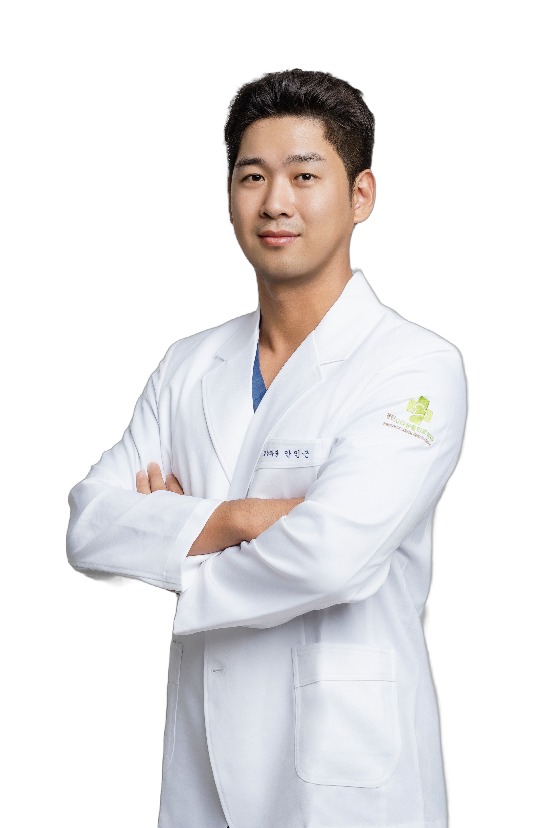
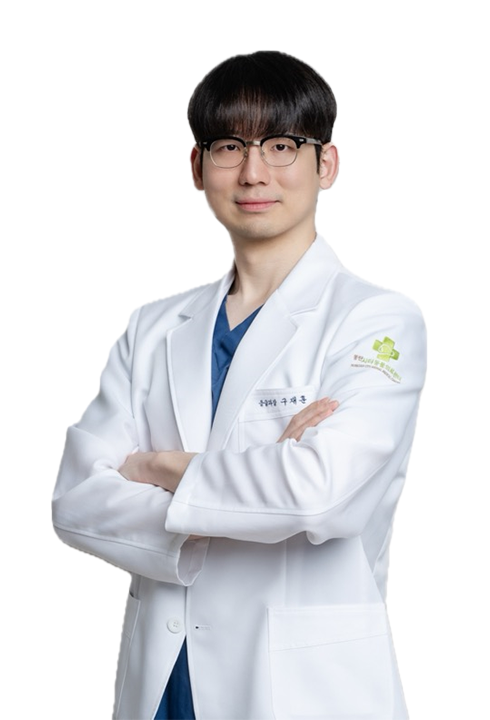
Change members

Changed region(s): [[0.0918, 0.0611, 0.8878, 1.0], [0.7959, 0.3972, 0.8265, 0.4278]]

diff --git a/components/sections/vets/vet-section.tsx b/components/sections/vets/vet-section.tsx
@@ -43,68 +43,70 @@ const VETS = [
     ],
   },
   {
-    name: "김경채",
-    title: "외과과장",
-    subjects: [
-      "정형외과(Orthopedic Surgery)",
-      "연부조직외과(Soft Tissue Surgery)",
-    ],
+    name: "김영석",
+    title: "응급과장",
+    subjects: ["응급진료(Emergency & Critical Care)"],
     image: vet2,
     history: [
-      "충북대 수의외과학 학사 졸업",
-      "충북대 수의외과학 석사 졸업",
-      "충북대 외과임상조교, 일반외과 팀장",
-      "24시동탄시티동물의료센터 외과 과장",
-      "",
-      "",
-      "한국 수의외과 학회 정회원",
-      "NAVER 동물질병백과 감수, PennHIP 인증 수의사",
-      "고양이 전십자인대 단열 및 치료과정 / TTA rapid를 활용한 강아지",
-      "십자인대 단열 및 슬개골 탈구의 교정(VETHONORS,2023)",
+      "충남대 수의외과학 박사 졸업",
+      "전)경기도 수의사회 부회장",
+      "전)경기동물메디컬센터 대표원장",
+      "전)탑케어동물의료원 대표원장",
+      "24시동탄시티동물의료센터 응급과장",
     ],
     expert: [
-      "Postoperative Application of Fentanyl Transdermal Patch in Lynx with Tibial Fracture (대한수의사회 임상컨퍼런스, 2021)",
-      "Veterinary surgical intervention seminar(2023)",
-      "Effect of leash walking on weight loss and assessment of hair cortisol in overweight dogs (Comparative Exercise Physiology, 2024)",
-      "DFO/PTO/TPLO-M/TTTT2 by Massimo Petazzoni (Intratrauma academy, Dubai, UAE, 2024)",
-      "Advanced TPLO/CBLO by Kenneth Bruecker & Donald Hulse (VITICUS, Las Vegas, NV, USA, 2024)",
+      "소동물 신경계심포지엄",
+      "반려동물 건강 2012 MEDEXX 세미나 내분비계",
+      "2024 MEDTRONIC VETERINARY PRACTICAL TRAINING",
+      "성장하는 돼지에서 tiletamine/zolazepam과azaperone plus tiletamine/zolazepam에 의해 유도된 진정효과와 진통효과의 비교",
+      "푸들견 외음부의 유전자(2007‘)",
+      "Cynomolgus 원숭이에서 Ketamine HCI와 Tiletamine/zolazepam을 이용한 고정화 수의학 저널(2003‘)",
+      "4마리 개를 위한 마취에서의 열 화상",
     ],
   },
-
   {
-    name: "김준희",
-    title: "내과과장",
-    subjects: ["내과(심장/신장)", "신장투석(Hemodialysis)"],
+    name: "조현민",
+    title: "외과과장",
+    subjects: ["정형외과(Orthopedic Surgery)", "치과(Dentistry)"],
     image: vet3,
     history: [
       "충북대 수의과대학 학사 졸업",
-      "충북대 피부신경과학실험실 조교",
-      "24시동탄시티동물의료센터 내과과장",
+      "전남대 수의외과학 박사 졸업",
+      "전남대 외과임상조교",
+      "전남대 동물병원 외과 팀장",
+      "24시동탄시티동물의료센터 외과과장",
+      "",
+      "",
+      "한국임상수의학회 정회원",
+      "한국수의치과협회 정회원",
     ],
     expert: [
-      "Retrospective study of 23 dogs with meningoencephalomyelitis of unknown etiology (대한수의사회, 2018)",
-      "Abdominal Ultrasonogarphy & Echocaridiogram (수의영상아카데미 Aurebio, 2024)",
-      "CRRT(Hemodialysis) Hands on course (FMC, 2024)",
-      "Echocardiogram doppler course by Joon Boon (VETWAVE, Dallas, TX, USA, 2024)",
-      "Advanced Soft Tissue Surgery for General Practitioners by Philipp Mayhew (VITICUS, Las Vegas, NV, USA, 2024)",
+      "Innoplant Veterinary Total Hip Replacement-cementless and cemented implantation (2023)",
+      "Veterinary Dental Forum (2024)",
+      "Application of modified porcine xenograft by collagen coating in the veterinary field: Pre-clinical and clinical evaluations (Frontiers in Veterinary Science, 2024)",
+      "Successful Surgical Treatment of Severe Lower Lip Avulsion in Two Cats (Journal of Veterinary Clinics, 2022)",
+      "Laparoscopic attenuation of a congenital extrahepatic portosystemic shunt in a dog—a thin-film banding for splenophrenic shunt: A case report (Frontiers in Veterinary Science, 2022)",
+      "Effects of a Topically Applied Oral Wound Dressing Film on Intra-oral Wound Healing in Rabbits (In Vivo, 2022)",
+      "Guided Bone Regeneration in Comminuted Long-Bone Fractures Using Recombinant Human Bone Morphogenetic Protein-2 and a Collagen Membrane (Journal of Veterinary Clinics, 2022)",
+      "Effect of quercetin on formation of porcine neutrophil extracellular trap (Veterinary Immunology and Immunopathology, 2021)",
     ],
   },
   {
-    name: "안인근",
-    title: "영상과장",
-    subjects: ["진단영상(CT/ULtrasound/Radiology)"],
+    name: "구재훈",
+    title: "응급과장",
+    subjects: ["응급진료(Emergency & Critical Care)"],
     image: vet4,
     history: [
-      "강원대 수의과대학 학사 졸업",
-      "강원대 임상수의학(영상의학)석사 졸업",
-      "강원대 동물 병원 영상의학과 팀장",
-      "동탄시티동물의료센터 영상과장",
+      "경상대 수의과대학 학사 졸업",
+      "24시동탄시티동물의료센터 응급과장",
       "",
       "",
-      "한국 수의영상학회 정회원",
+      "한국수의외과학회 정회원",
     ],
     expert: [
-      "Differentiation between benign and malignant hepatic masses using CT malignancy score (대한수의사회 임상컨퍼런스, 2024)",
+      "Principles in small animal fracture management (AOVET, 2022)",
+      "Veterinary Ophthalmology by Ahn jae sang (2023)",
+      "TPLO basic course by Dr. koreeda (2023)",
     ],
   },
   {
